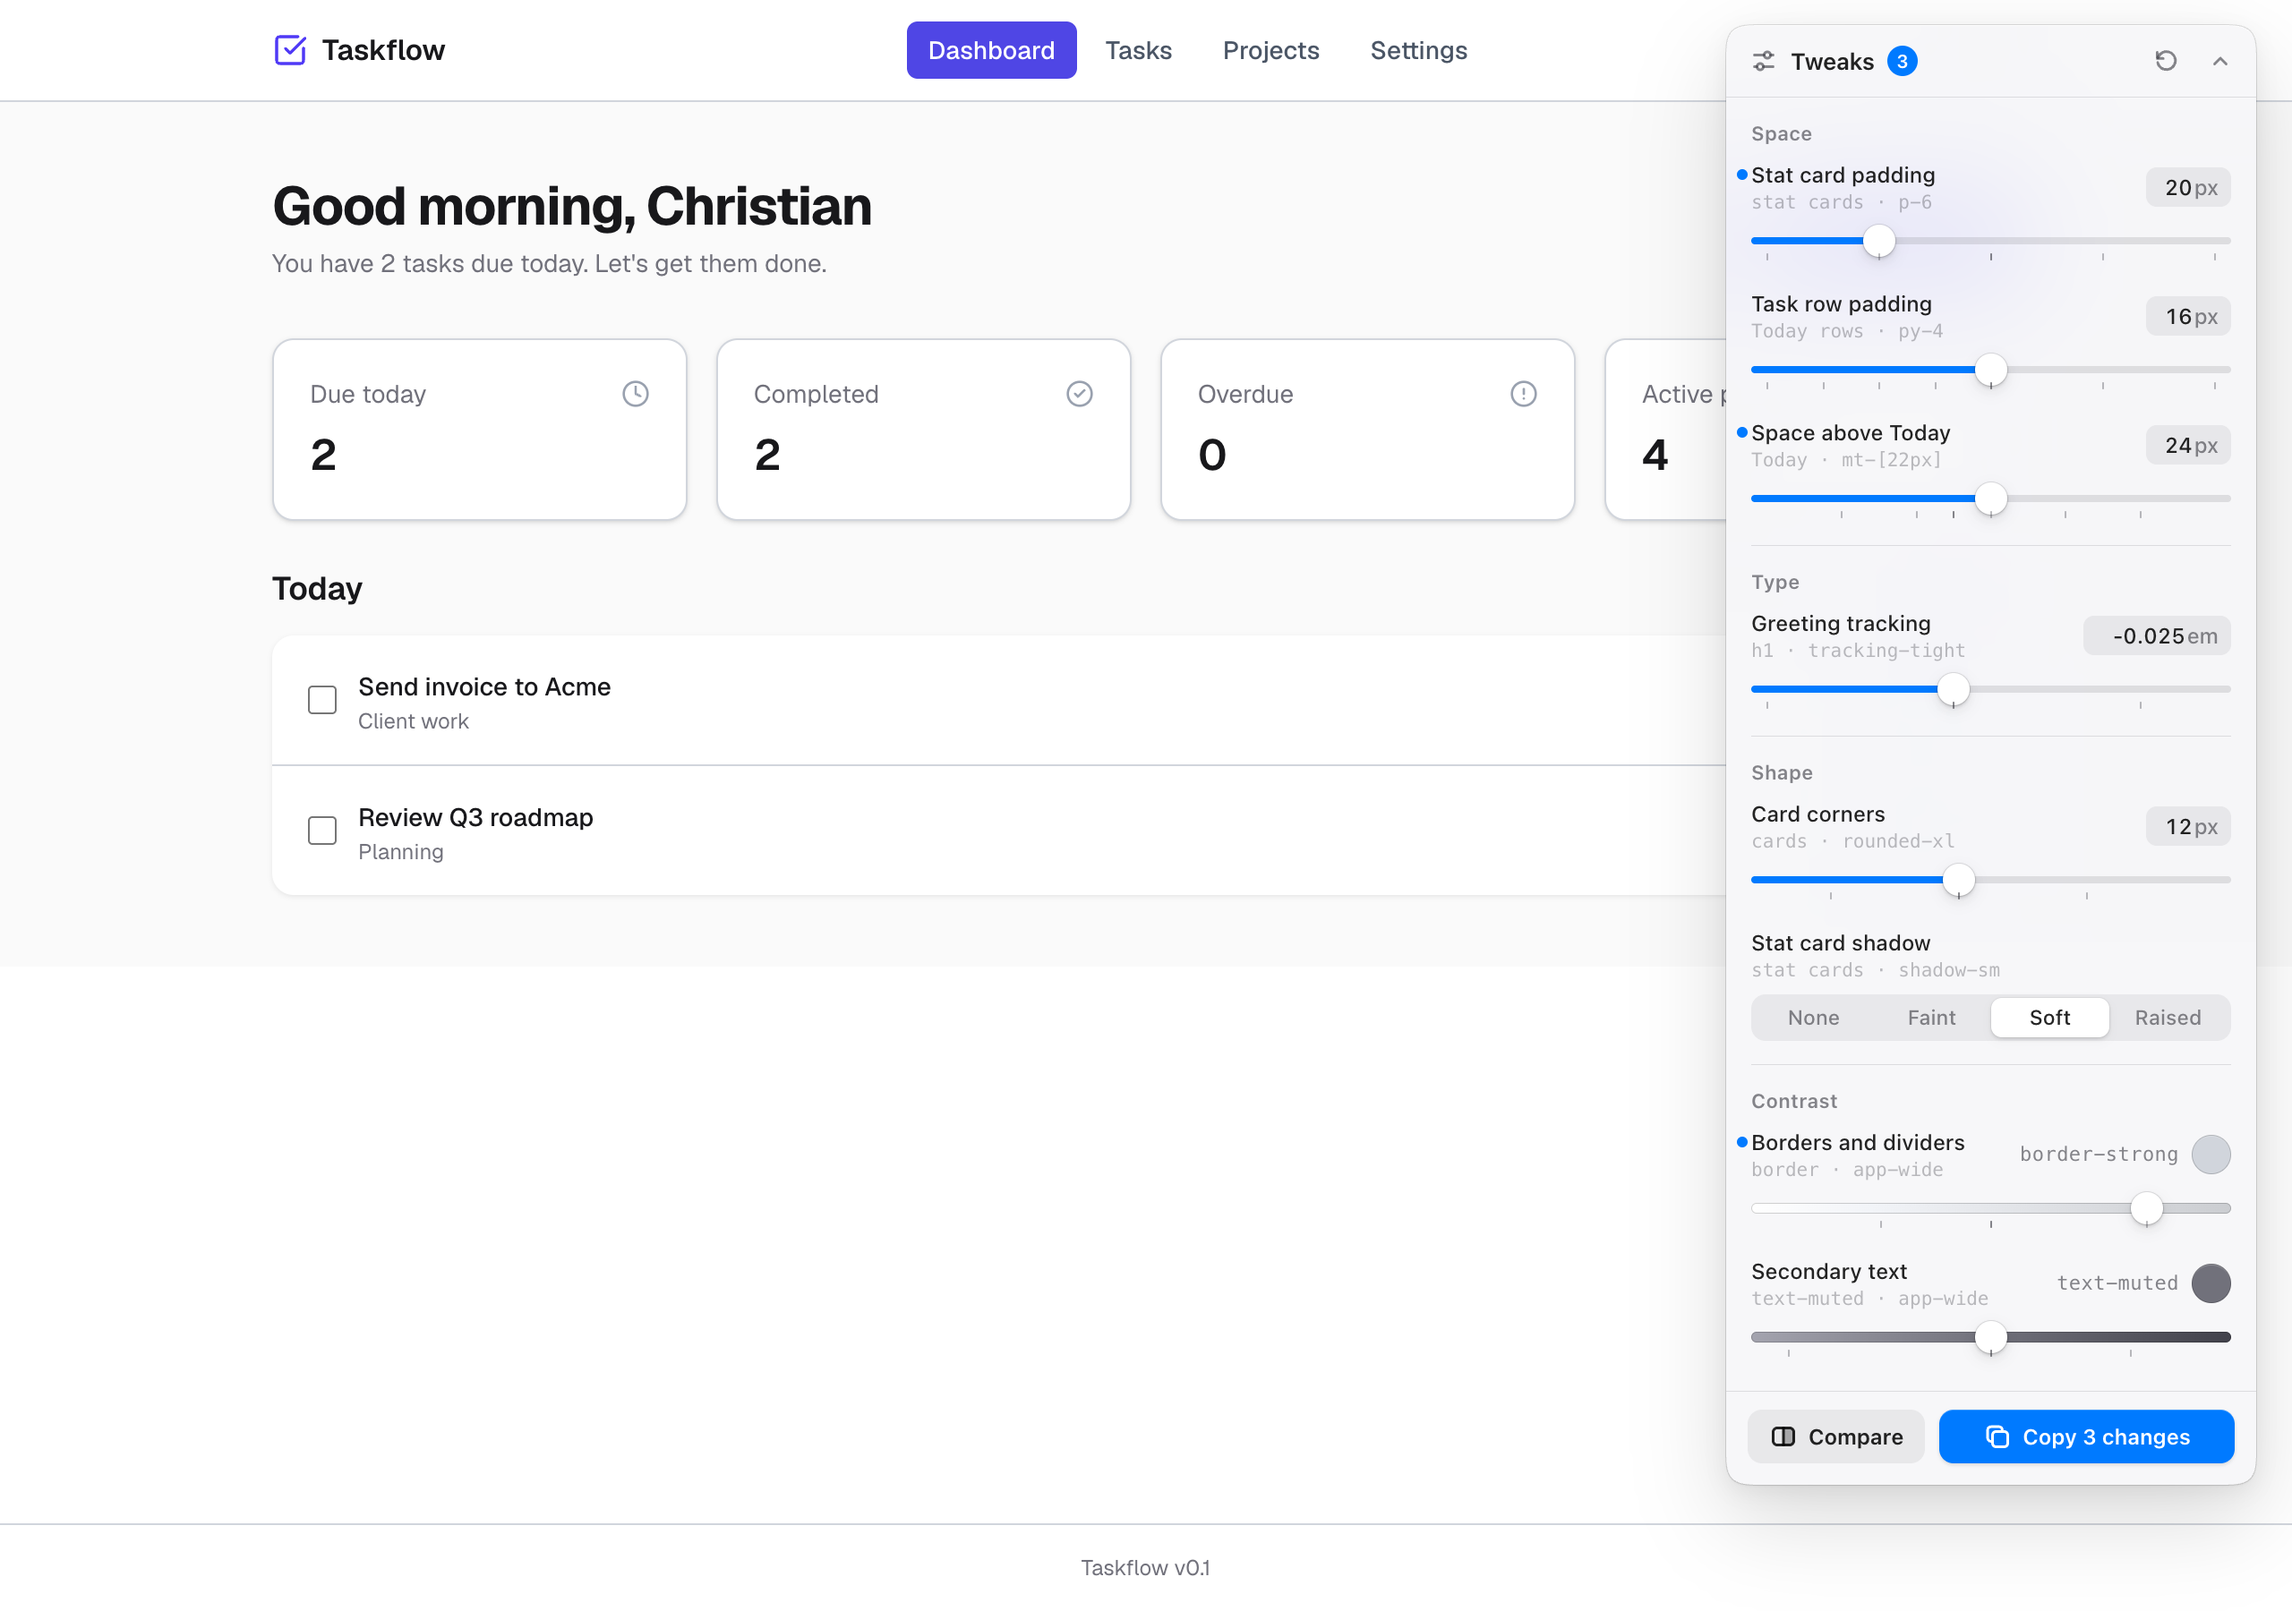
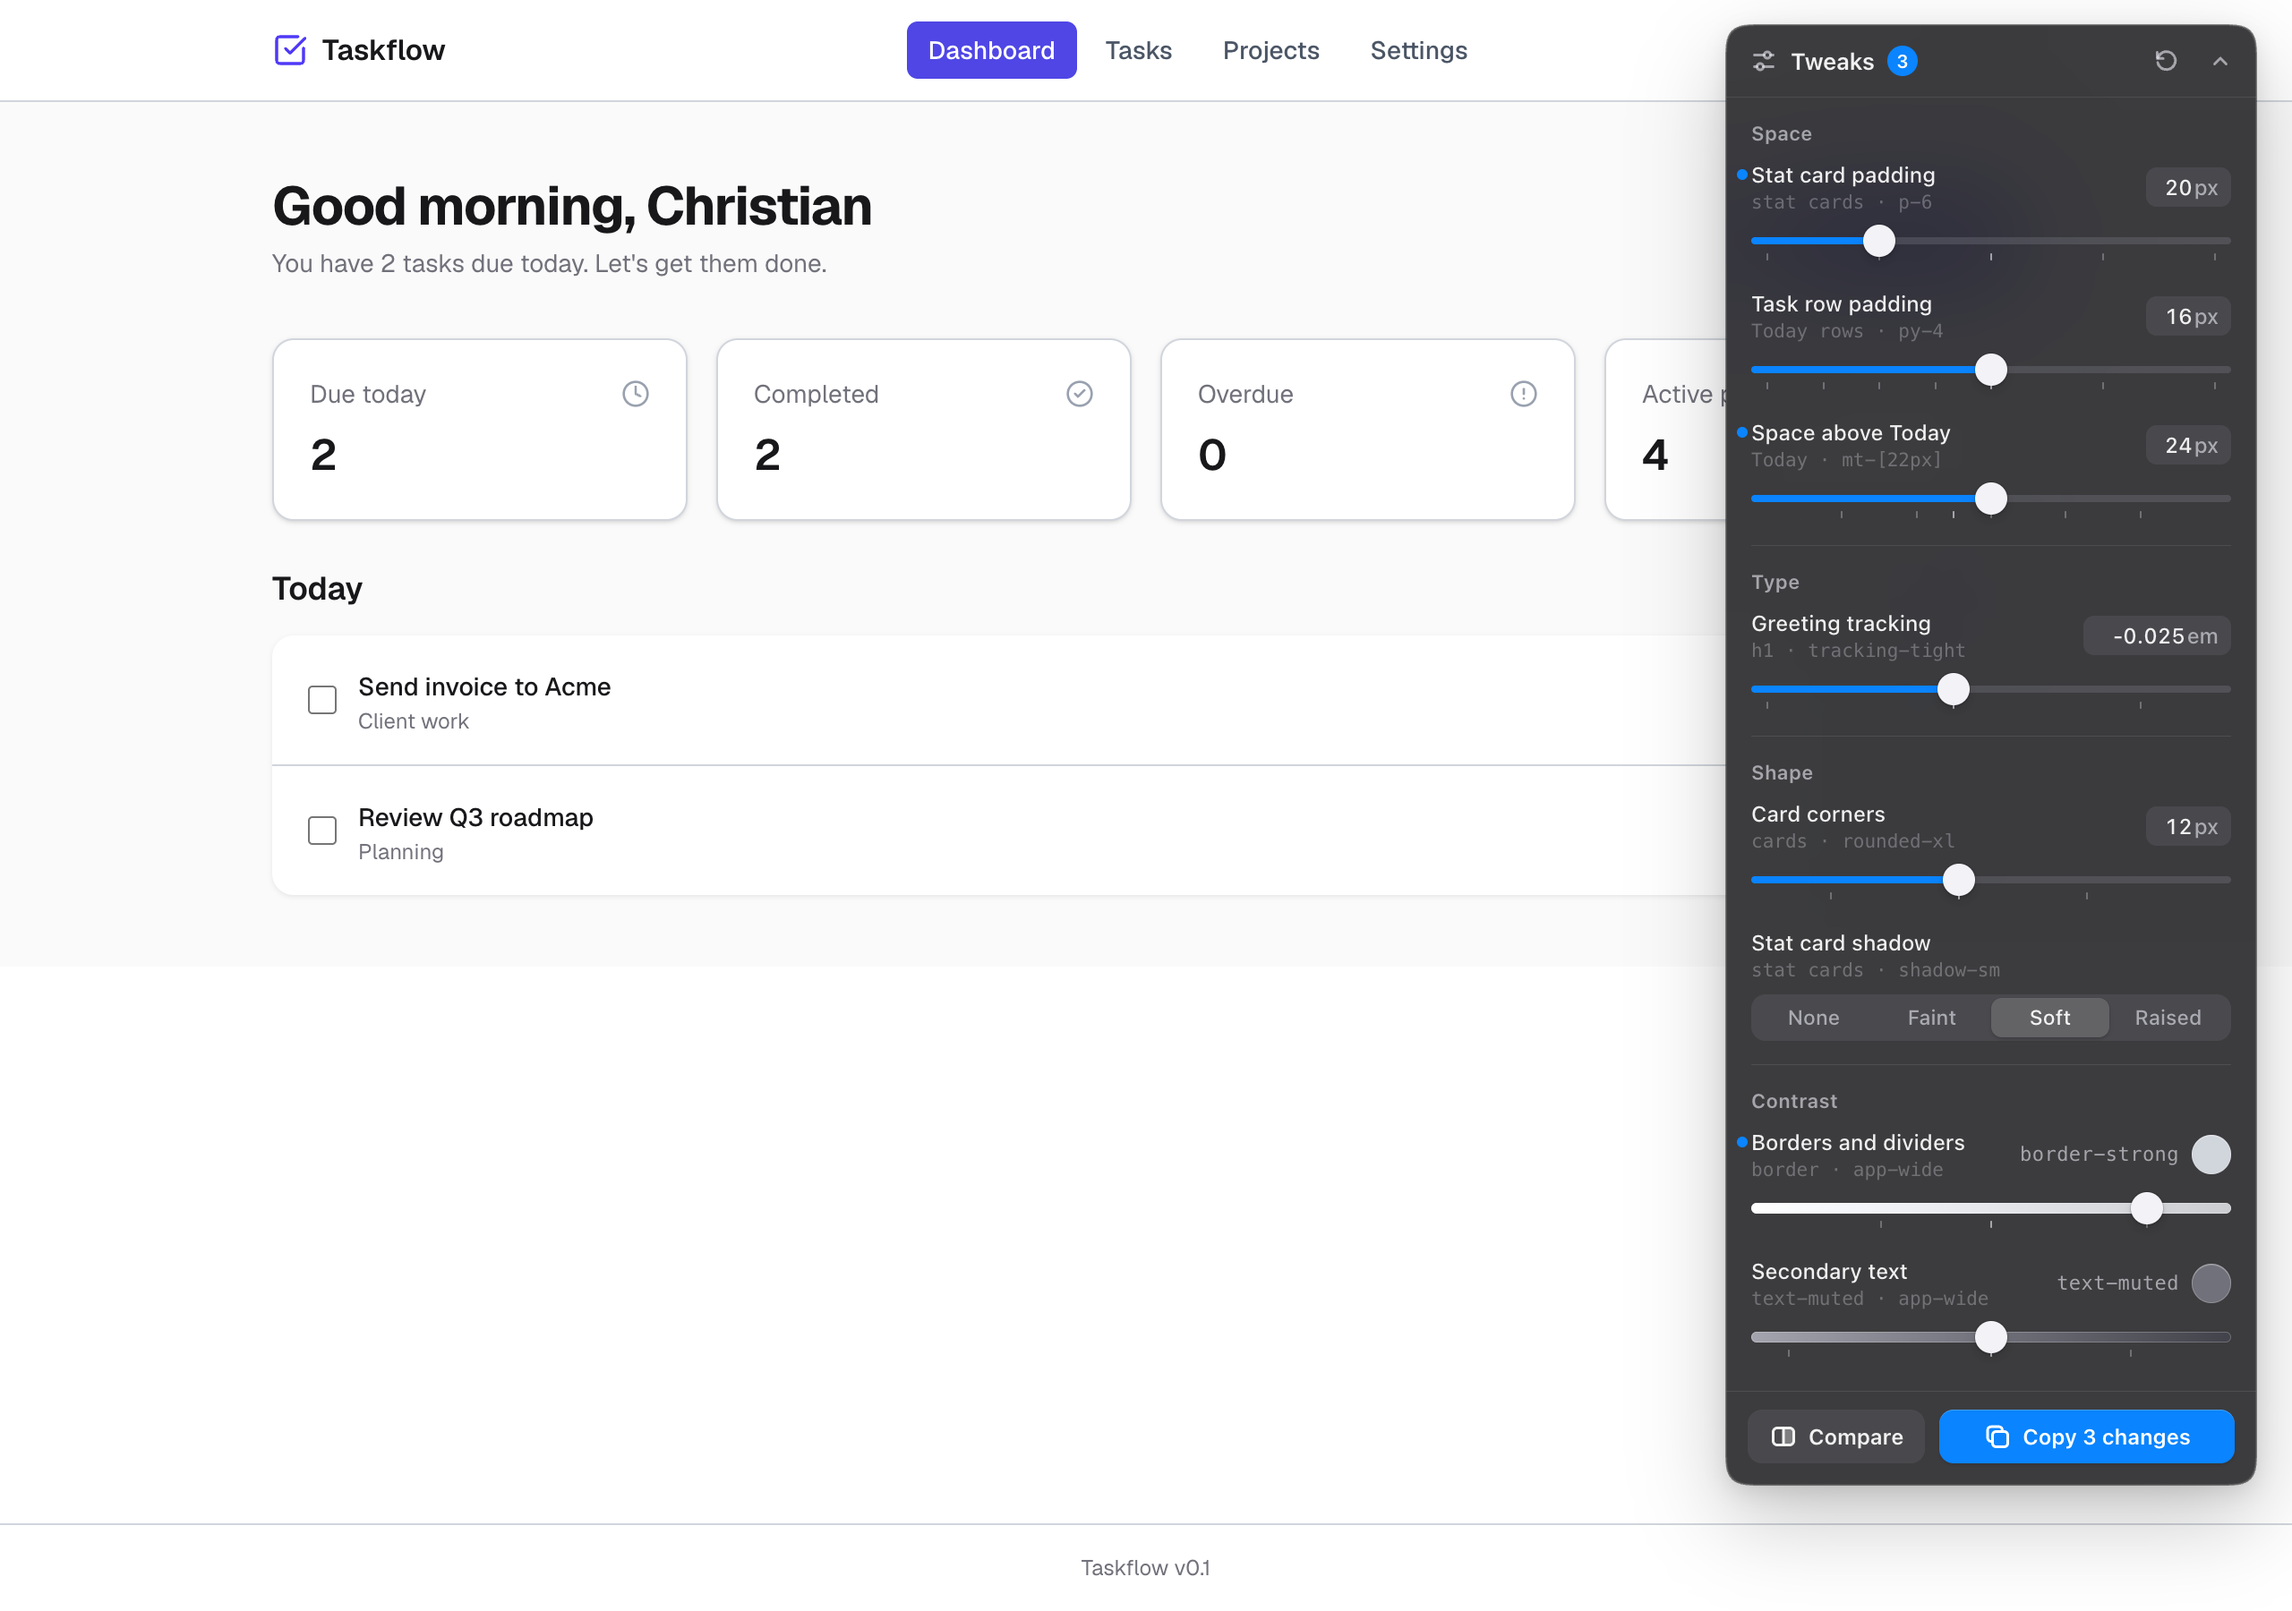
ui-tweaks: panel takes the opposite theme of the page underneath
The panel now samples the background behind it and goes dark over light
pages and light over dark ones, instead of following the system setting,
so it never blends into the app being tweaked. It re-checks on load, after
a drag, on resize and with every config poll, so it flips live when the
app's theme toggles. Softer shadow for the dark panel, slightly more opaque
light panel; README screenshot and description updated.

Changed region(s): [[0.75, 0.0, 1.0, 0.9333]]

diff --git a/skills/ui-tweaks/scripts/ui-tweaks.js b/skills/ui-tweaks/scripts/ui-tweaks.js
@@ -358,6 +358,21 @@
   const changedCount = () => controls.filter((c) => isChanged(c, values[c.id])).length;
 
   let probe = null;
+  // Any CSS colour → [r, g, b, alpha] through a 1px canvas; null when the browser can't parse it.
+  function rgbaOf(str) {
+    if (!str) return null;
+    try {
+      if (!probe) { const cv = document.createElement("canvas"); cv.width = cv.height = 1; probe = cv.getContext("2d", { willReadFrequently: true }); }
+      probe.fillStyle = "#010203";
+      probe.fillStyle = str;
+      if (probe.fillStyle === "#010203" && !/^#010203$/i.test(str)) return null;
+      probe.clearRect(0, 0, 1, 1);
+      probe.fillRect(0, 0, 1, 1);
+      const d = probe.getImageData(0, 0, 1, 1).data;
+      return [d[0], d[1], d[2], d[3] / 255];
+    } catch (e) { return null; }
+  }
+
   function toHex(str) {
     str = String(str || "").trim();
     const m = /^#([0-9a-f]{3}|[0-9a-f]{6})$/i.exec(str);
@@ -370,16 +385,8 @@
       resolved = getComputedStyle(el).color;
       el.remove();
     }
-    try {
-      if (!probe) { const cv = document.createElement("canvas"); cv.width = cv.height = 1; probe = cv.getContext("2d", { willReadFrequently: true }); }
-      probe.fillStyle = "#010203";
-      probe.fillStyle = resolved;
-      if (probe.fillStyle === "#010203" && !/^#010203$/i.test(resolved)) return null;
-      probe.clearRect(0, 0, 1, 1);
-      probe.fillRect(0, 0, 1, 1);
-      const d = probe.getImageData(0, 0, 1, 1).data;
-      return "#" + [d[0], d[1], d[2]].map((n) => (n < 16 ? "0" : "") + n.toString(16)).join("");
-    } catch (e) { return null; }
+    const d = rgbaOf(resolved);
+    return d ? "#" + d.slice(0, 3).map((n) => (n < 16 ? "0" : "") + n.toString(16)).join("") : null;
   }
 
   // ---------------------------------------------------------------------------------------------
@@ -855,6 +862,7 @@
       ui.y = n.top;
       saveUi();
       place();
+      pickTheme();
     };
     header.addEventListener("pointermove", move);
     header.addEventListener("pointerup", up);
@@ -879,6 +887,25 @@
   // overflow on the app's body can't trap it, and re-rendering the body can't remove it.
   const attach = () => { if (!host.isConnected) document.documentElement.appendChild(host); };
 
+  // Dark over light pages, light over dark ones: average the first solid background behind three points of the panel.
+  function pickTheme() {
+    const r = panel.getBoundingClientRect();
+    if (!r.width) return;
+    let sum = 0;
+    const points = [[r.left + r.width / 2, r.top + r.height / 2], [r.left + 12, r.top + 12], [r.right - 12, r.bottom - 12]];
+    points.forEach(([px, py]) => {
+      let c = null;
+      for (const el of document.elementsFromPoint(clamp(px, 0, innerWidth - 1), clamp(py, 0, innerHeight - 1))) {
+        if (el === host) continue;
+        const v = rgbaOf(getComputedStyle(el).backgroundColor);
+        if (v && v[3] > 0.5) { c = v; break; }
+      }
+      if (!c) c = /dark/.test(getComputedStyle(document.documentElement).colorScheme) ? [0, 0, 0] : [255, 255, 255];
+      sum += 0.2126 * toLin(c[0] / 255) + 0.7152 * toLin(c[1] / 255) + 0.0722 * toLin(c[2] / 255);
+    });
+    panel.classList.toggle("dark", sum / points.length > 0.3);
+  }
+
   async function poll() {
     attach();
     if (document.hidden) return;
@@ -891,14 +918,16 @@
       if (lastText === null) fail("The tweaks list didn't load", e.message);
     }
     if (!failed) checkPresence();
+    pickTheme();
   }
 
   function boot() {
     attach();
     if (ui.collapsed) setCollapsed(true);
     place();
+    pickTheme();
     new MutationObserver(attach).observe(document.documentElement, { childList: true });
-    addEventListener("resize", place);
+    addEventListener("resize", () => { place(); pickTheme(); });
     poll();
     setInterval(poll, 1500);
   }
@@ -922,7 +951,7 @@ button { -webkit-tap-highlight-color: transparent; }
   --spring: cubic-bezier(.32, .72, 0, 1);
   --font: -apple-system, BlinkMacSystemFont, "SF Pro Text", "Inter", "Segoe UI", system-ui, sans-serif;
   --mono: ui-monospace, "SF Mono", SFMono-Regular, Menlo, Consolas, monospace;
-  --bg: rgba(246, 246, 248, .84);
+  --bg: rgba(246, 246, 248, .9);
   --bg-solid: #f5f5f7;
   --fg: rgba(0, 0, 0, .86);
   --fg2: rgba(60, 60, 67, .62);
@@ -962,29 +991,28 @@ button { -webkit-tap-highlight-color: transparent; }
   -webkit-user-select: none;
   transform-origin: var(--origin, top right);
   interpolate-size: allow-keywords;
-  transition: width .46s var(--spring), border-radius .46s var(--spring), box-shadow .25s ease;
+  transition: width .46s var(--spring), border-radius .46s var(--spring), box-shadow .25s ease, background-color .35s ease, color .35s ease;
 }
-@media (prefers-color-scheme: dark) {
-  .panel {
-    --bg: rgba(28, 28, 30, .86);
-    --bg-solid: #1c1c1e;
-    --fg: rgba(255, 255, 255, .92);
-    --fg2: rgba(235, 235, 245, .6);
-    --fg3: rgba(235, 235, 245, .3);
-    --sep: rgba(255, 255, 255, .09);
-    --fill: rgba(118, 118, 128, .24);
-    --fill2: rgba(118, 118, 128, .36);
-    --track: rgba(118, 118, 128, .36);
-    --raised: #636366;
-    --knob: #f2f2f7;
-    --accent: #0a84ff;
-    --ring: rgba(10, 132, 255, .45);
-    --warn: #ff9f0a;
-    --rim: rgba(255, 255, 255, .22);
-    --shadow: 0 0 0 .5px rgba(0, 0, 0, .7), 0 4px 12px rgba(0, 0, 0, .2), 0 20px 48px rgba(0, 0, 0, .45);
-    --shadow-lift: 0 0 0 .5px rgba(0, 0, 0, .7), 0 8px 20px rgba(0, 0, 0, .25), 0 32px 72px rgba(0, 0, 0, .55);
-    --edge: inset 0 0 0 .5px rgba(255, 255, 255, .1);
-  }
+/* Over a light page the panel goes dark, over a dark page light, so it never blends into the app. */
+.panel.dark {
+  --bg: rgba(28, 28, 30, .86);
+  --bg-solid: #1c1c1e;
+  --fg: rgba(255, 255, 255, .92);
+  --fg2: rgba(235, 235, 245, .6);
+  --fg3: rgba(235, 235, 245, .3);
+  --sep: rgba(255, 255, 255, .09);
+  --fill: rgba(118, 118, 128, .24);
+  --fill2: rgba(118, 118, 128, .36);
+  --track: rgba(118, 118, 128, .36);
+  --raised: #636366;
+  --knob: #f2f2f7;
+  --accent: #0a84ff;
+  --ring: rgba(10, 132, 255, .45);
+  --warn: #ff9f0a;
+  --rim: rgba(255, 255, 255, .22);
+  --shadow: 0 0 0 .5px rgba(0, 0, 0, .45), 0 4px 12px rgba(0, 0, 0, .1), 0 20px 48px rgba(0, 0, 0, .22);
+  --shadow-lift: 0 0 0 .5px rgba(0, 0, 0, .45), 0 8px 20px rgba(0, 0, 0, .14), 0 32px 72px rgba(0, 0, 0, .3);
+  --edge: inset 0 0 0 .5px rgba(255, 255, 255, .1);
 }
 @supports not ((backdrop-filter: blur(1px)) or (-webkit-backdrop-filter: blur(1px))) {
   .panel { background: var(--bg-solid); }

diff --git a/skills/ui-tweaks/README.md b/skills/ui-tweaks/README.md
@@ -6,7 +6,7 @@ The last 10% of a design is craft: the card that wants 20px of padding instead o
 
 It is for refining a design, not redesigning it: no accent colours or font swaps unless you ask for them by name. The app's code is not touched while you play; it changes once, when you paste the result back.
 
-![The Tweaks panel over a task manager's dashboard: stat card and row padding, space above a section, heading tracking, card corners and shadow, and border and secondary-text shades, with three changes ready to copy](https://raw.githubusercontent.com/nuthinking/skills/main/docs/screenshots/ui-tweaks/panel.png)
+![The Tweaks panel over a task manager's dashboard: stat card and row padding, space above a section, heading tracking, card corners and shadow, and border and secondary-text shades, with three changes ready to copy; the panel is dark because the page is light](https://raw.githubusercontent.com/nuthinking/skills/main/docs/screenshots/ui-tweaks/panel.png)
 
 ## How it works
 
@@ -27,7 +27,7 @@ It is for refining a design, not redesigning it: no accent colours or font swaps
 
 ## The panel
 
-Designed to feel like a macOS inspector: translucent material, the system font at inspector sizes, hairline separators, spring motion, light and dark following your system. One file, no dependencies, with its styles sealed in a shadow root and attached outside the page's body, so it cannot affect the app and the app cannot affect it.
+Designed to feel like a macOS inspector: translucent material, the system font at inspector sizes, hairline separators, spring motion. It takes the opposite of the page underneath, dark over a light app and light over a dark one, so it never blends into what you are tweaking, and it flips when the app's theme does. One file, no dependencies, with its styles sealed in a shadow root and attached outside the page's body, so it cannot affect the app and the app cannot affect it.
 
 - Drag it by the header; it remembers where you left it.
 - Collapse it to a pill; **⌥T** (Alt+T) hides it entirely.
